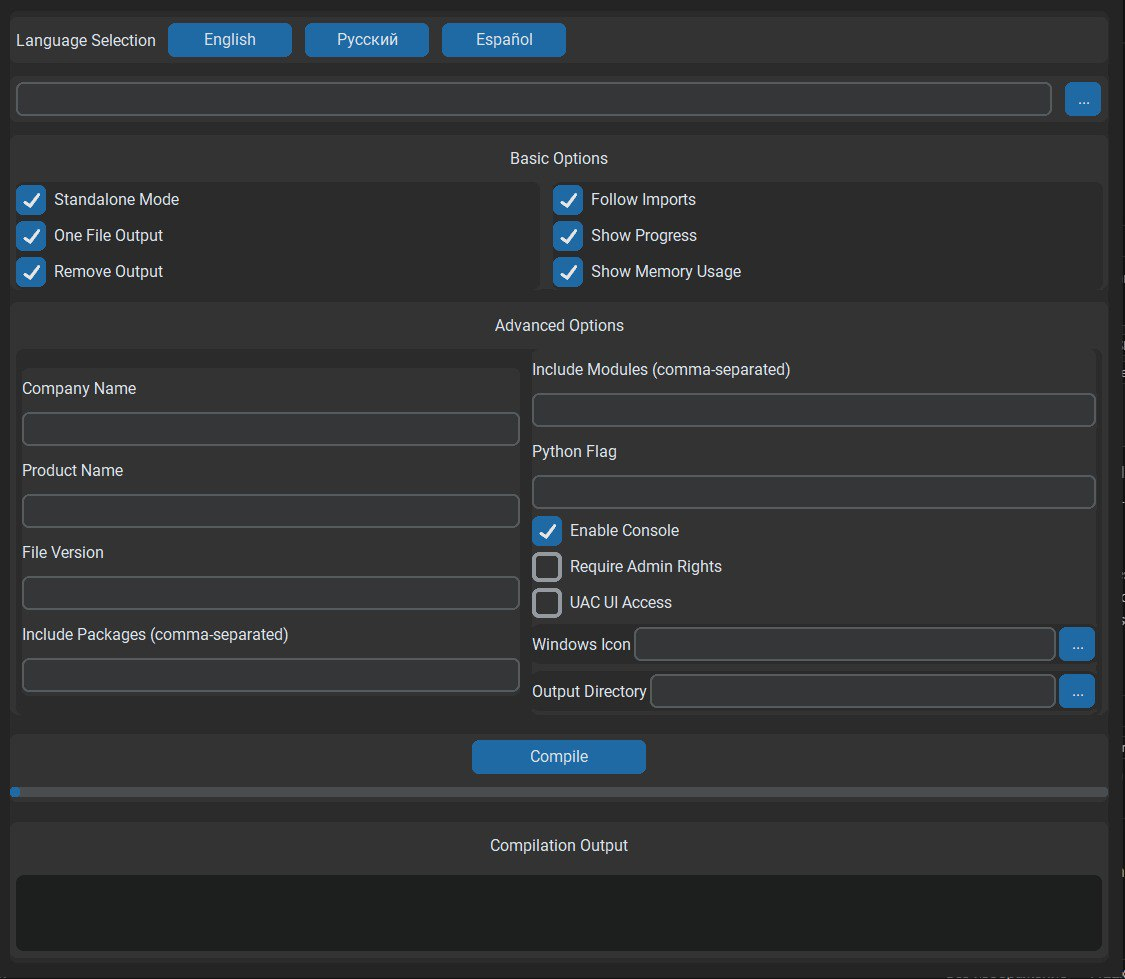
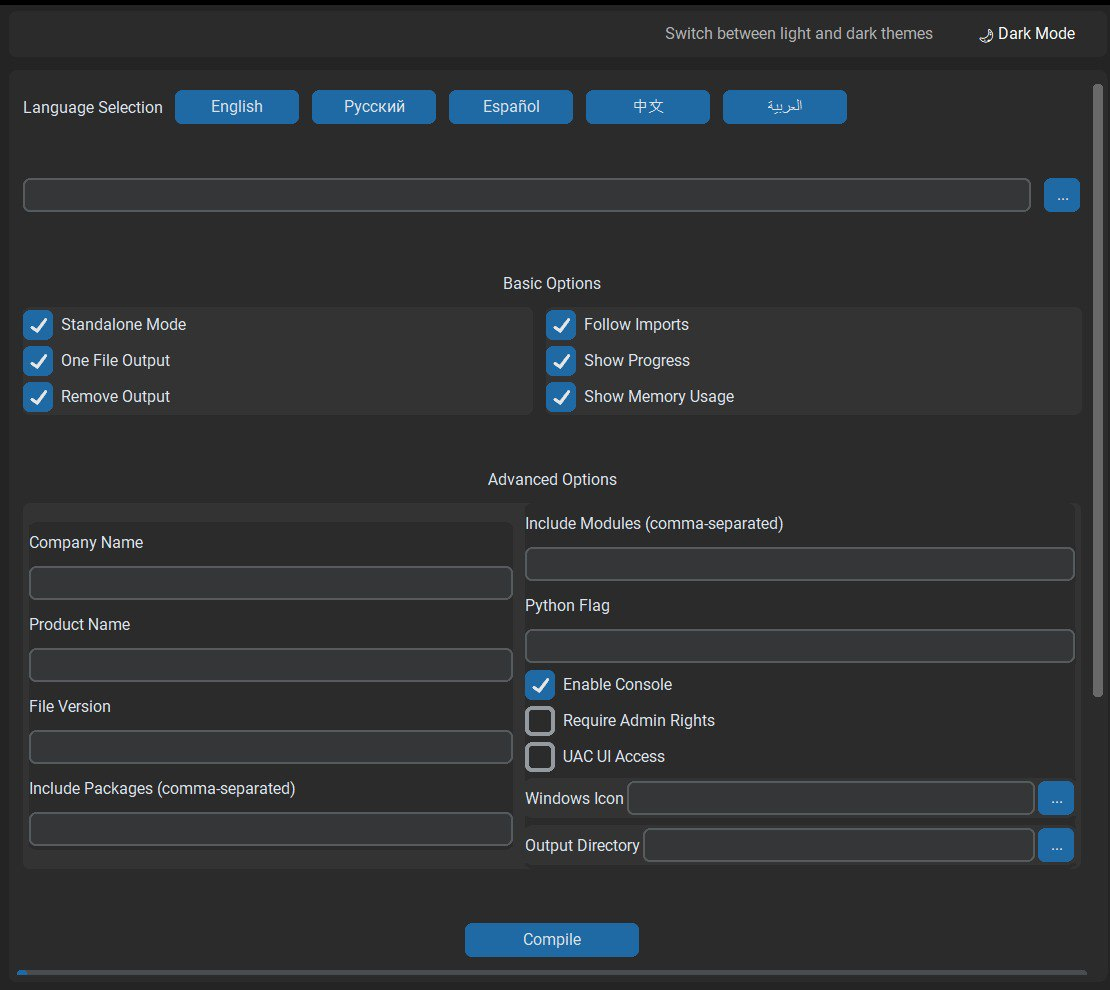
Added, theme change and interface translation into Chinese and Arabic

diff --git a/src/nuitka_gui.py b/src/nuitka_gui.py
@@ -1,9 +1,11 @@
 import customtkinter as ctk
 from tkinter import filedialog, messagebox
-from config import (DEFAULT_WINDOW_SIZE, DEFAULT_LANGUAGE, SUPPORTED_LANGUAGES,
+from src.config import (DEFAULT_WINDOW_SIZE, DEFAULT_LANGUAGE, SUPPORTED_LANGUAGES,
                    load_translations)
-from compiler import NuitkaCompiler
-from gui_components import AdvancedOptionsFrame
+from src.compiler import NuitkaCompiler
+from src.gui_components import AdvancedOptionsFrame
+from functools import partial
+import threading
 
 class NuitkaGUI:
     def __init__(self):
@@ -12,14 +14,21 @@ class NuitkaGUI:
         self.widgets = {}
         self.options = {}
         self.translatable_widgets = {}
+        self.is_compiling = False
         self.load_translations()
+        self.create_theme_toggle()
         self.create_widgets()
         
     def setup_window(self):
         self.root.title("Nuitka GUI Compiler")
         self.root.geometry(DEFAULT_WINDOW_SIZE)
-        ctk.set_appearance_mode("dark")  # Always dark theme
+        self.root.minsize(800, 600)  # Set minimum window size
+        ctk.set_appearance_mode("dark")
         ctk.set_default_color_theme("blue")
+        
+        # Configure grid weight for responsive layout
+        self.root.grid_columnconfigure(0, weight=1)
+        self.root.grid_rowconfigure(0, weight=1)
         
     def load_translations(self):
         try:
@@ -30,17 +39,24 @@ class NuitkaGUI:
             self.root.quit()
             
     def create_widgets(self):
-        # Create main container with padding
-        self.main_container = ctk.CTkFrame(self.root)
+        # Main container with improved padding and organization
+        self.main_container = ctk.CTkScrollableFrame(self.root)
         self.main_container.pack(fill='both', expand=True, padx=10, pady=10)
         
-        self.create_language_selection()
-        self.create_file_selection()
-        self.create_basic_options()
-        self.create_advanced_options()
-        self.create_compile_section()
-        self.create_output_section()
+        # Create sections with proper spacing
+        sections = [
+            self.create_language_selection,
+            self.create_file_selection,
+            self.create_basic_options,
+            self.create_advanced_options,
+            self.create_compile_section,
+            self.create_output_section
+        ]
         
+        for section in sections:
+            section()
+            ctk.CTkFrame(self.main_container, height=2).pack(fill='x', pady=10)
+            
     def create_language_selection(self):
         lang_frame = ctk.CTkFrame(self.main_container)
         lang_frame.pack(fill='x', pady=5)
@@ -163,6 +179,46 @@ class NuitkaGUI:
         self.output_text = ctk.CTkTextbox(output_frame)
         self.output_text.pack(fill='both', expand=True, padx=5, pady=5)
 
+    def create_theme_toggle(self):
+        theme_frame = ctk.CTkFrame(self.root)
+        theme_frame.pack(fill='x', padx=10, pady=(5, 0))
+        
+        # Improved theme toggle button with better visual feedback
+        self.theme_button = ctk.CTkButton(
+            theme_frame,
+            text="🌙 Dark Mode" if ctk.get_appearance_mode() == "Dark" else "☀ Light Mode",
+            command=self.toggle_theme,
+            width=120,
+            height=32,
+            corner_radius=8,
+            fg_color=("#2B2B2B" if ctk.get_appearance_mode() == "Dark" else "#E8E8E8"),
+            hover_color=("#363636" if ctk.get_appearance_mode() == "Dark" else "#D1D1D1"),
+            text_color=("#FFFFFF" if ctk.get_appearance_mode() == "Dark" else "#000000")
+        )
+        self.theme_button.pack(side='right', padx=5, pady=2)
+        
+        # Add tooltip-like label for theme button
+        self.theme_tooltip = ctk.CTkLabel(
+            theme_frame,
+            text="Switch between light and dark themes",
+            text_color="gray70"
+        )
+        self.theme_tooltip.pack(side='right', padx=10)
+        
+    def toggle_theme(self):
+        # Toggle between light and dark mode
+        current_mode = ctk.get_appearance_mode()
+        new_mode = "Light" if current_mode == "Dark" else "Dark"
+        ctk.set_appearance_mode(new_mode)
+        
+        # Update button appearance
+        self.theme_button.configure(
+            text="🌙 Dark Mode" if new_mode == "Dark" else "☀ Light Mode",
+            fg_color=("#2B2B2B" if new_mode == "Dark" else "#E8E8E8"),
+            hover_color=("#363636" if new_mode == "Dark" else "#D1D1D1"),
+            text_color=("#FFFFFF" if new_mode == "Dark" else "#000000")
+        )
+
     def translate(self, key):
         return self.translations[self.current_language].get(key, key)
         
@@ -197,6 +253,9 @@ class NuitkaGUI:
             self.file_path.set(filename)
             
     def compile(self):
+        if self.is_compiling:
+            return
+            
         if not self.file_path.get():
             messagebox.showerror(
                 self.translate("error"),
@@ -204,20 +263,46 @@ class NuitkaGUI:
             )
             return
             
-        self.compile_btn.configure(state='disabled')
+        self.is_compiling = True
+        self.compile_btn.configure(
+            state='disabled',
+            text=self.translate("compilation_started")
+        )
         self.progress.start()
         self.output_text.delete(1.0, ctk.END)
         self.output_text.insert(ctk.END, self.translate("compilation_started") + "\n")
         
-        success, error = NuitkaCompiler.compile(
-            self.file_path.get(),
-            {k: v.get() for k, v in self.options.items()},
-            lambda x: self.output_text.insert(ctk.END, x),
-            lambda: self.root.update()
-        )
+        # Run compilation in a separate thread
+        threading.Thread(target=self._compile_thread, daemon=True).start()
         
+    def _compile_thread(self):
+        try:
+            success, error = NuitkaCompiler.compile(
+                self.file_path.get(),
+                {k: v.get() for k, v in self.options.items()},
+                self._update_output,
+                self._update_progress
+            )
+            
+            self.root.after(0, self._compilation_finished, success, error)
+            
+        except Exception as e:
+            self.root.after(0, self._compilation_finished, False, str(e))
+            
+    def _update_output(self, text):
+        self.root.after(0, lambda: self.output_text.insert(ctk.END, text + "\n"))
+        self.root.after(0, lambda: self.output_text.see(ctk.END))
+        
+    def _update_progress(self):
+        self.root.after(0, self.root.update)
+        
+    def _compilation_finished(self, success, error):
+        self.is_compiling = False
         self.progress.stop()
-        self.compile_btn.configure(state='normal')
+        self.compile_btn.configure(
+            state='normal',
+            text=self.translate("compile")
+        )
         
         if success:
             messagebox.showinfo(
@@ -231,8 +316,8 @@ class NuitkaGUI:
             )
 
 def main():
-    app = NuitkaGUI()
-    app.root.mainloop()
-
-if __name__ == "__main__":
-    main()
+    try:
+        app = NuitkaGUI()
+        app.root.mainloop()
+    except Exception as e:
+        messagebox.showerror("Fatal Error", f"An unexpected error occurred: {str(e)}")

diff --git a/src/config.py b/src/config.py
@@ -6,12 +6,15 @@ DEFAULT_LANGUAGE = "en"
 SUPPORTED_LANGUAGES = {
     "en": "English",
     "ru": "Русский",
-    "es": "Español"
+    "es": "Español",
+    "zh": "中文",
+    "ar": "العربية"
 }
 
 def load_translations():
     try:
-        with open('translations.json', 'r', encoding='utf-8') as f:
+        translations_path = Path(__file__).parent / 'translations.json'
+        with open(translations_path, 'r', encoding='utf-8') as f:
             return json.load(f)
     except FileNotFoundError:
         raise FileNotFoundError("translations.json not found!")

diff --git a/main.py b/main.py
@@ -1,0 +1,4 @@
+import src.nuitka_gui as nuitka_gui
+
+if __name__ == "__main__":
+    nuitka_gui.main()

diff --git a/src/__init__.py b/src/__init__.py
@@ -1,0 +1,1 @@
+# This can be empty, it just marks the directory as a Python package 

diff --git a/README.md b/README.md
@@ -33,6 +33,6 @@ A graphical interface for the Nuitka Python compiler that simplifies the process
 
 1. Launch the application:
    ```bash
-   python nuitka_gui.py
+   python main.py
    ```
 
